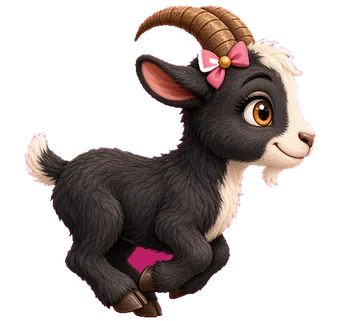
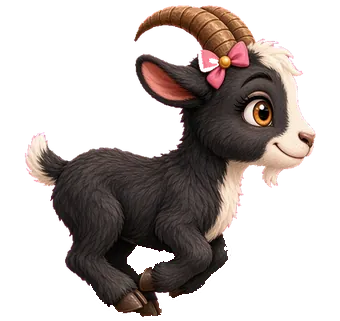
Odstraň růžovou skvrnu u zadní nohy Drběny.

diff --git a/src/game/runner.ts b/src/game/runner.ts
@@ -156,7 +156,7 @@ function hash(n: number): number {
   return x - Math.floor(x);
 }
 
-const ART_REV = "14";
+const ART_REV = "15";
 
 async function loadImage(src: string): Promise<HTMLImageElement | null> {
   try {
